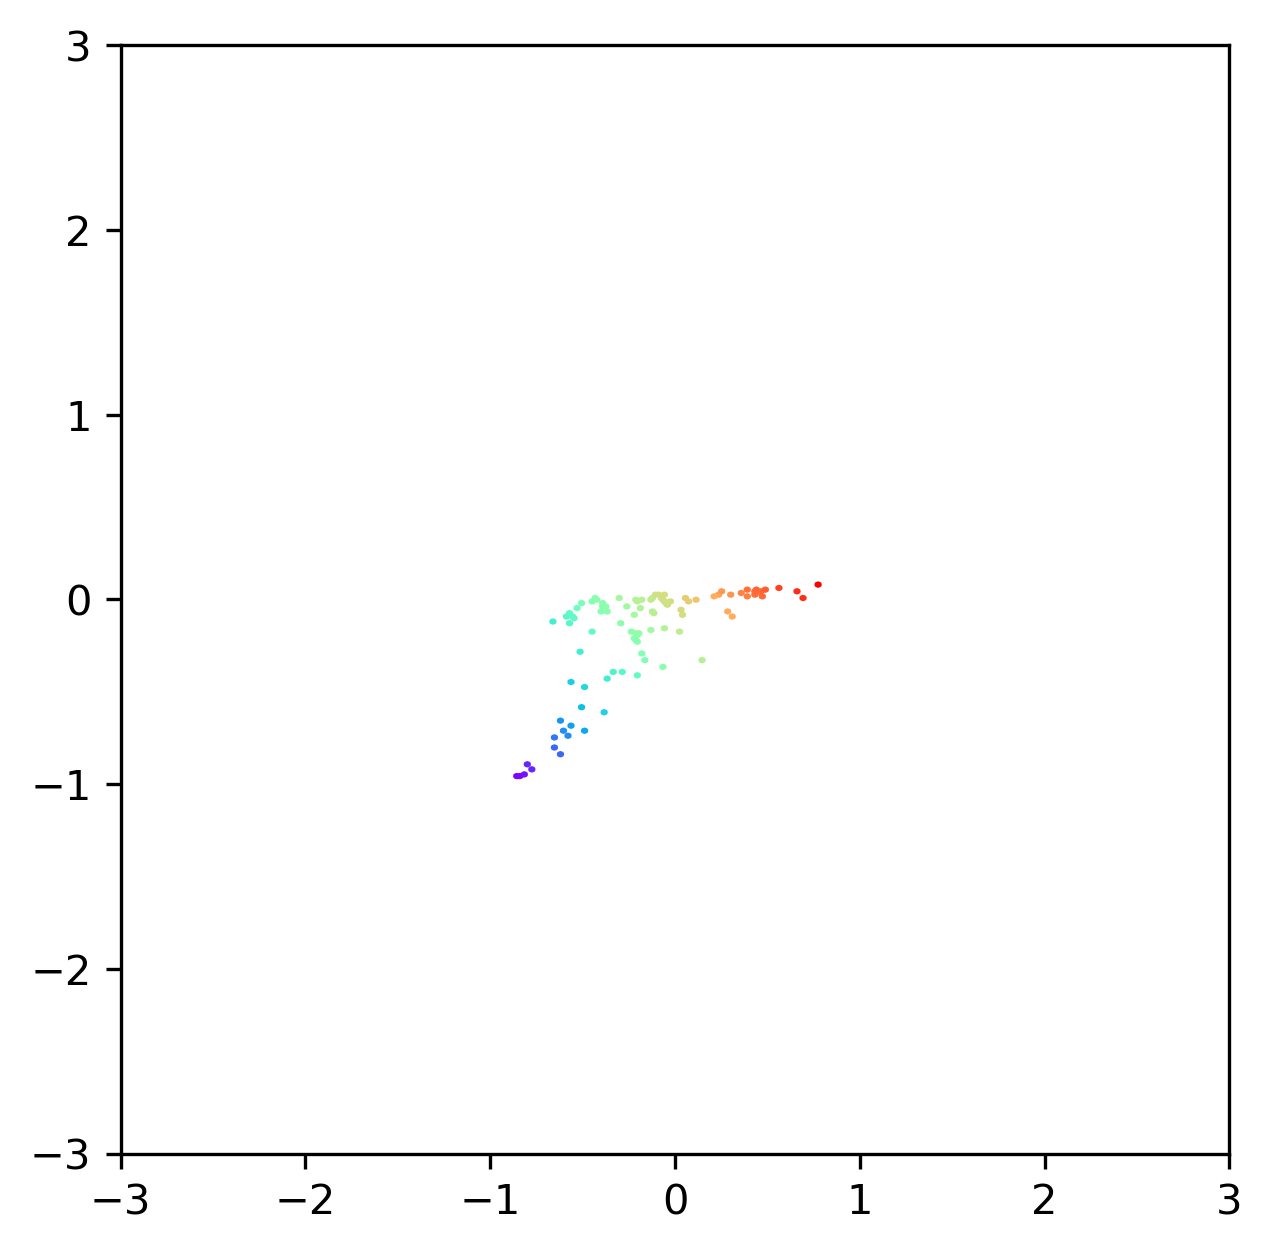
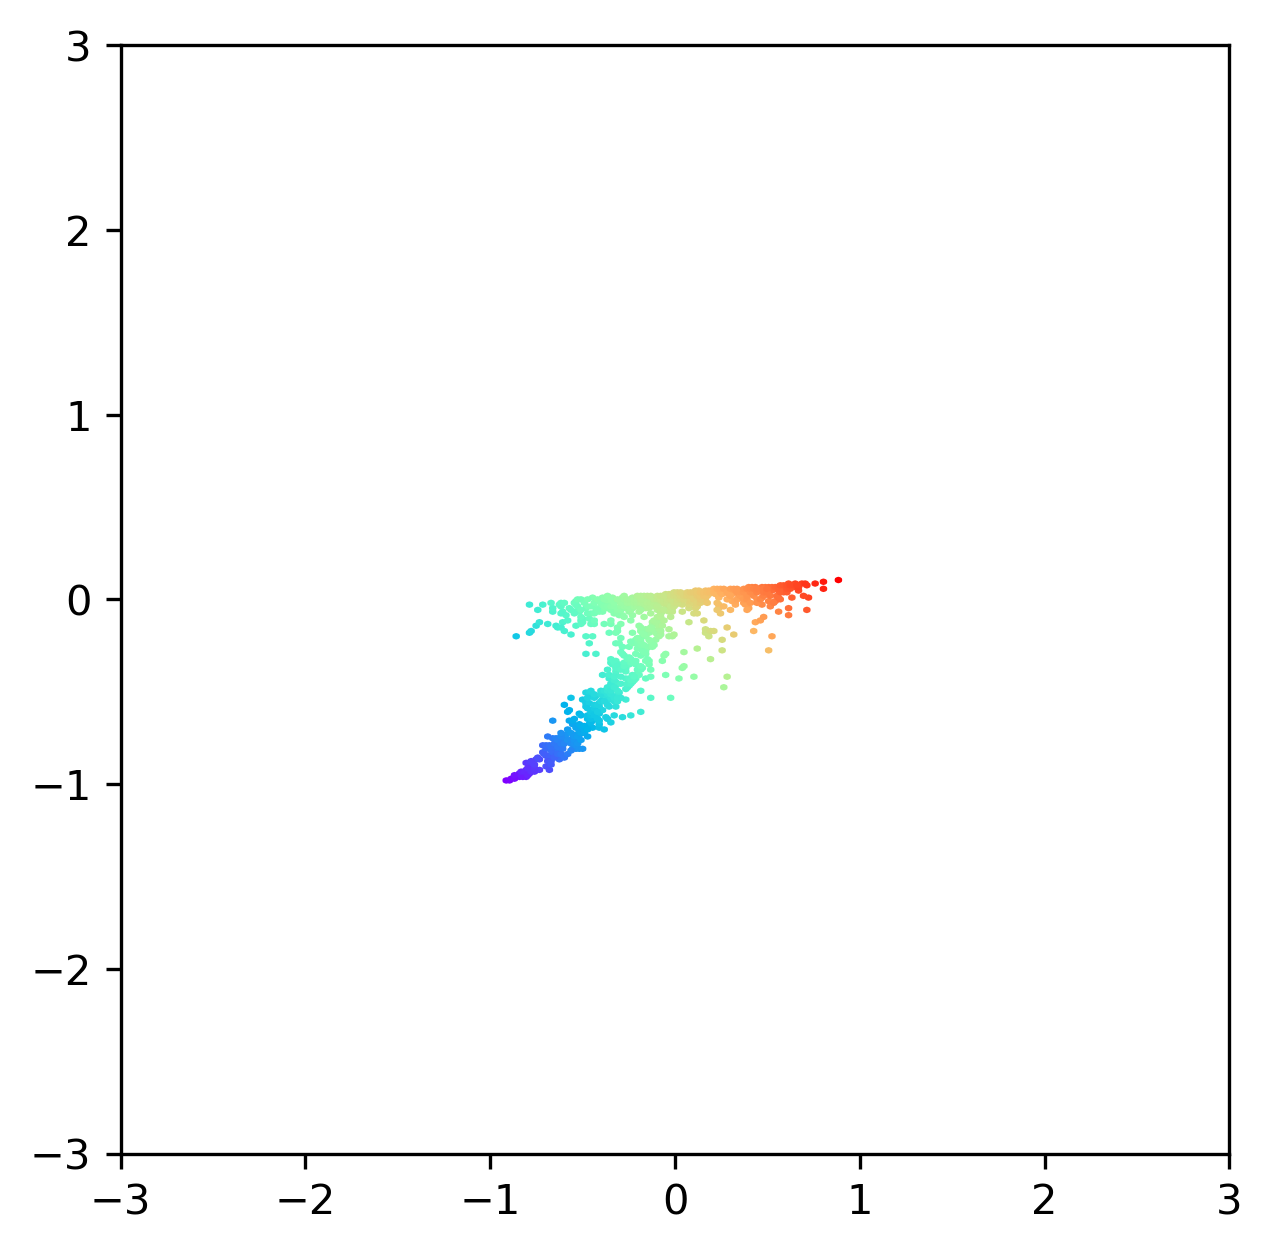
add slurm

Changed region(s): [[0.3986, 0.4358, 0.6439, 0.6225]]

diff --git a/codes/gan/train_distribution_2.py b/codes/gan/train_distribution_2.py
@@ -1,0 +1,48 @@
+from gan import *
+import tensorflow as tf
+from utils import *
+import os
+from tqdm import tqdm
+import numpy as np
+
+class HyperParameters():
+    epochs = 50000
+    dataset = '2'
+    batch_size = 1000
+    noise_size = 2
+    seed = 1234
+    n_samples = 1000
+    sampling_size = 500
+    # train/ not train
+    training_status = 'train'
+    # save/ load
+    data_status = 'load'
+    # write/ not
+    writing_status = 'not'
+    save_interval = 200
+if __name__ ==  "__main__":
+    params = HyperParameters
+    cwd = os.path.dirname(os.path.dirname(os.getcwd()))
+    params.data_path = cwd + '/data'
+    params.result_path = cwd + '/results/gan'
+    params.img_path = cwd + '/results/gan/img/distribution_{}'.format(params.dataset)
+    tf.random.set_seed(params.seed)
+    cross_entropy = tf.keras.losses.BinaryCrossentropy(from_logits=True)
+    if not os.path.exists(params.result_path):
+        os.makedirs(params.result_path)
+    if not os.path.exists(params.img_path):
+        os.makedirs(params.img_path)
+    if params.data_status=="load":
+        x_train = np.load(params.data_path+'/x_train_{}.npy'.format(params.dataset))
+        y_train = np.load(params.data_path+'/y_train_{}.npy'.format(params.dataset))
+    elif params.data_status=="save":
+        x_train, y_train, x_test, y_test = get_data_distribution(params)
+        print('Train data shape : {}'.format(x_train.shape))
+        print(x_train.shape)
+        np.save('x_train_{}.npy'.format(params.dataset), x_train)
+        np.save('y_train_{}.npy'.format(params.dataset), y_train)
+        params.noise_size = 2
+    print("Loading inputs with shape: {}".format(y_train.shape))
+    if params.training_status == "train":
+        gan = GAN(params)
+        gan.train(y_train)

diff --git a/codes/gan/train_distribution_1.py b/codes/gan/train_distribution_1.py
@@ -8,7 +8,7 @@ import numpy as np
 class HyperParameters():
     epochs = 20000
     dataset = '2'
-    batch_size = 100
+    batch_size = 1000
     noise_size = 2
     seed = 1234
     n_samples = 1000
@@ -25,7 +25,7 @@ if __name__ ==  "__main__":
     cwd = os.path.dirname(os.path.dirname(os.getcwd()))
     params.data_path = cwd + '/data'
     params.result_path = cwd + '/results/gan'
-    params.img_path = cwd + '/results/gan/img'
+    params.img_path = cwd + '/results/gan/img/distribution_{}'.format(params.dataset)
     tf.random.set_seed(params.seed)
     cross_entropy = tf.keras.losses.BinaryCrossentropy(from_logits=True)
     if not os.path.exists(params.result_path):

diff --git a/codes/gan/gan.py b/codes/gan/gan.py
@@ -140,9 +140,10 @@ class GAN():
         gen_imgs = self.generator.predict(noise)
 
         # Rescale images 0 - 1
-
+        fig, ax = plt.subplots(nrows=1, ncols=1)
         plt.hexbin(gen_imgs[:, 0], gen_imgs[:, 1], C= gen_imgs.squeeze(), cmap='rainbow')
         plt.gca().set_aspect('equal', adjustable='box')
         plt.xlim([-3, 3])
         plt.ylim([-3, 3])
-        plt.savefig(self.params.img_path+"/{}.png".format(epoch), dpi=300, bbox_inches='tight')
+        fig.savefig(self.params.img_path+"/{}.png".format(epoch), dpi=300, bbox_inches='tight')
+        plt.close(fig)
